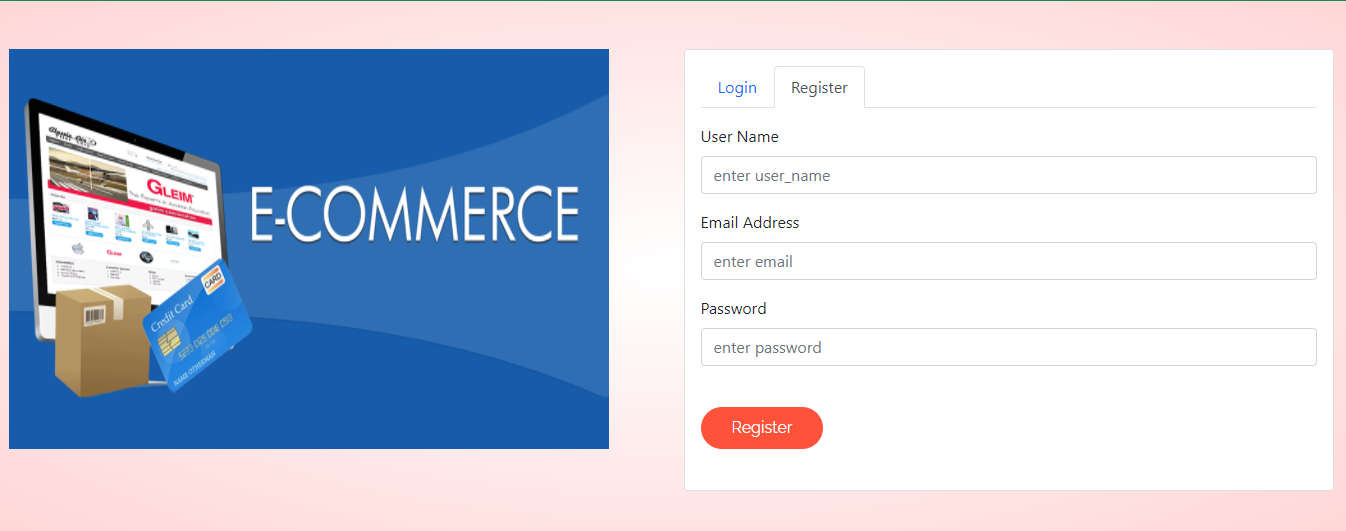
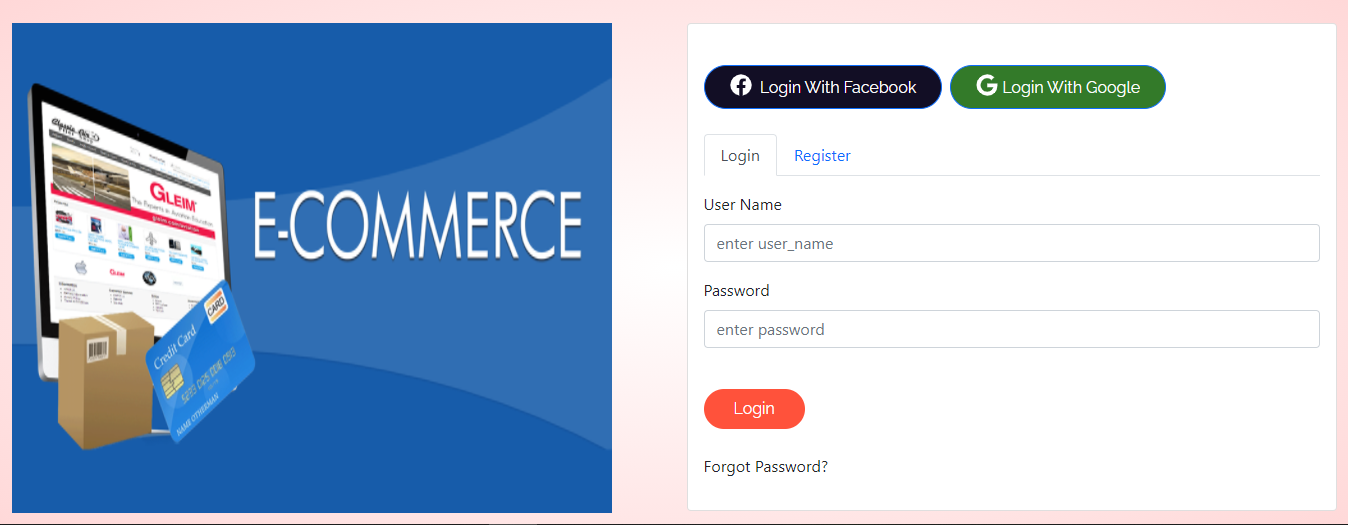
some modified in account components and README.md  file iamges

diff --git a/src/Components/Account/Account.js b/src/Components/Account/Account.js
@@ -1,5 +1,7 @@
 import React, { Component, Fragment } from 'react'
-import { Col, Container, Row,Card,Tabs,Tab } from 'react-bootstrap'
+import { Col, Container, Row,Card,Tabs,Tab,Button } from 'react-bootstrap'
+import { FontAwesomeIcon } from '@fortawesome/react-fontawesome'
+import { faFacebook,faGoogle } from '@fortawesome/free-brands-svg-icons'
 import account_img from '../../images/R.png' 
 import Login from '../Login/Login'
 import Register from '../Register/Register'
@@ -18,6 +20,8 @@ export default class Account extends Component {
                            <div>
                                 <Card>
                                    <Card.Body>
+                                    <Button className="btn-3"><FontAwesomeIcon icon={faFacebook} style={{fontSize:'22px'}}/> &nbsp;Login With Facebook</Button>
+                                    <Button className="btn-4 m-2"><FontAwesomeIcon icon={faGoogle} style={{fontSize:'22px'}}/>&nbsp;Login With Google</Button>
                                     <Tabs defaultActiveKey="register"  transition={true} id="uncontrolled-tab-example" className="mb-3">
                                             <Tab eventKey="login" title="Login">
                                                 <Login />

diff --git a/src/Assets/responsive.css b/src/Assets/responsive.css
@@ -41,7 +41,7 @@
         width: 380px;
     }
     .account-img-size{
-        height:430px;
+        height:300px;
         width:375px;
     }
     .product-d-name{
@@ -258,7 +258,7 @@
         width: 695px;
     }
     .account-img-size{
-        height:400px;
+        height:550px;
         width:350px;
     }
     .product-d-name{
@@ -344,7 +344,7 @@
         width: 936px;
     }
     .account-img-size{
-        height: 400px;
+        height: 550px;
         width : 455px;
     }
     .product-d-name{
@@ -412,7 +412,7 @@
         width: 1117px;
     }
     .account-img-size{
-        height: 400px;
+        height: 488px;
         width : 555px;
     }
     .product-d-name{

diff --git a/src/Assets/style.css b/src/Assets/style.css
@@ -408,7 +408,7 @@
     background: radial-gradient(#fff,#ffd6d6);
 }
 .account-img-size{
-    height:400px;
+    height:490px;
     width:600px;
 }
 

diff --git a/README.md b/README.md
@@ -16,6 +16,9 @@ This is a e-commerce project design(Responsive) is used react js.
 ### offer section
 ![offer!](/src/images/offer.PNG "offer")
 
+### new product low price section according a specific time
+![new product low price section!](/src/images/count-timer.PNG "new product low price section")
+
 ### testimonial section
 ![testimonial!](/src/images/testimonial.PNG "testimonial")
 
